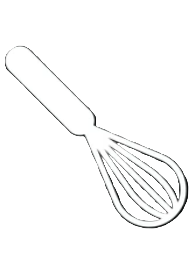
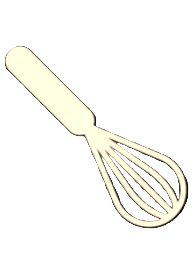
sortable list

Changed region(s): [[0.0311, 0.1444, 0.9637, 0.8375]]

diff --git a/index.html b/index.html
@@ -52,13 +52,15 @@
         <div>
             <h4>Rate Ramsay Moments</h4>
             <ul id="sortable">
-                <li class="ui-state-default"><span class="ui-icon ui-icon-arrowthick-2-n-s"></span> </li>
-                <li class="ui-state-default"><span class="ui-icon ui-icon-arrowthick-2-n-s"></span>Item 2 </li>
-                <li class="ui-state-default"><span class="ui-icon ui-icon-arrowthick-2-n-s"></span>Item 3</li>
-                <li class="ui-state-default"><span class="ui-icon ui-icon-arrowthick-2-n-s"></span>Item 4</li>
-                <li class="ui-state-default"><span class="ui-icon ui-icon-arrowthick-2-n-s"></span>Item 5</li>
-                <li class="ui-state-default"><span class="ui-icon ui-icon-arrowthick-2-n-s"></span>Item 6</li>
-                <li class="ui-state-default"><span class="ui-icon ui-icon-arrowthick-2-n-s"></span>Item 7</li>
+                <li class="ui-state-default">
+                    <img src="./images/chefFiller.jpg">
+                </li>
+                <li class="ui-state-default">
+                    <img src="./images/chefFiller.jpg">
+                </li>
+                <li class="ui-state-default">3</li>
+                <li class="ui-state-default">4</li>
+                <li class="ui-state-default">5</li>
             </ul>
         </div>
         <br>

diff --git a/scripts/index.js b/scripts/index.js
@@ -39,12 +39,14 @@ $(document).ready(function(){
         duration:2000
     },'linear')});
 
-    $( function() {
-        // var forcePlaceholderSize = $( ".list_img" ).sortable( "option", "forcePlaceholderSize" );
-        // $( "#sortable" ).sortable( "option", "forcePlaceholderSize", true );
+    $( "#sortable" ).sortable();
+
+    // $( function() {
+    //     // var forcePlaceholderSize = $( ".list_img" ).sortable( "option", "forcePlaceholderSize" );
+    //     // $( "#sortable" ).sortable( "option", "forcePlaceholderSize", true );
         
-        $( "#sortable" ).sortable({
-            forcePlaceholderSize: true
-        });
-      });
+    //     $( "#sortable" ).sortable({
+    //         forcePlaceholderSize: true
+    //     });
+    //   });
 });

diff --git a/styles/index.css b/styles/index.css
@@ -64,9 +64,29 @@ h1{
 
 
 
-#sortable { list-style-type: none; margin: 0; padding: 0; width: 60%; }
-#sortable li { margin: 0px 3px 3px 3px; padding: 2em; padding-left: 1.5em; font-size: 1.4em; height: 18px; }
-#sortable li span { position: absolute; margin-left: -1.3em; }
+#sortable { list-style-type: none; 
+    margin: 0; 
+    padding-bottom: 100px; 
+    width: 1000px; 
+}
+
+#sortable li{ 
+    margin: 3px 3px 3px 3px; 
+    padding: 0px; 
+    float: left; 
+    width: 100px; 
+    height: 90px; 
+    font-size: 4em; 
+    text-align: center; 
+}
+
+#sortable li img{ 
+    float: left; 
+    width: 100px; 
+    height: 90px; 
+    font-size: 4em; 
+    text-align: center; 
+}
 
 .footer{
     background-color: #9a4a0a;

diff --git a/styles/contacts.css b/styles/contacts.css
@@ -38,7 +38,7 @@ h1{
     width:7%;
     position:absolute;
     left: 35%;
-    top:90px;
+    top:80px;
     border-spacing:0px;
 }
 
